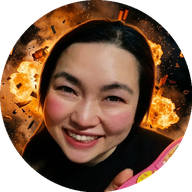
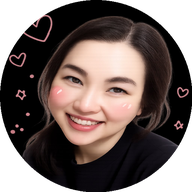
Add files via upload

diff --git a/index.html b/index.html
@@ -284,7 +284,7 @@ body{font-family:'Noto Sans KR',sans-serif;background:var(--bg);color:var(--text
 <header class="app-header">
   <div class="header-row">
     <div class="app-title">🏠 가족 일정</div>
-    <span class="app-version">v4.4</span>
+    <span class="app-version">v4.5</span>
     <div class="header-actions">
       <button class="hdr-btn btn-refresh" onclick="location.reload()">🔄</button>
       <button class="hdr-btn btn-loc" onclick="window.open('https://family-tracker-yoo.web.app','_blank')">📍 위치</button>
@@ -1058,14 +1058,18 @@ async function processAICommand(reply){
   return reply.replace(/\[CMD:[\s\S]*?\]/,'');
 }
 
-// ID 포함 일정 요약
+// ID 포함 일정 요약 - 앞뒤 2개월만, 간결하게
 function getEventsSummaryWithIds(){
-  const allEvs=expand(events).sort((a,b)=>a.date.localeCompare(b.date));
+  const now=new Date();
+  const s=new Date(now.getFullYear(),now.getMonth()-1,1);
+  const e=new Date(now.getFullYear(),now.getMonth()+3,0);
+  const allEvs=events
+    .filter(ev=>ev.date>=s.toISOString().slice(0,10)&&ev.date<=e.toISOString().slice(0,10))
+    .sort((a,b)=>a.date.localeCompare(b.date));
   if(!allEvs.length) return '등록된 일정 없음';
   return allEvs.map(ev=>{
-    const who=Array.isArray(ev.who)?ev.who.join(','):ev.who;
-    const id=ev._v?ev._oid:ev.id;
-    return `[ID:${id}] [${ev.date}${ev.time?' '+ev.time:''}] ${ev.title} - ${who}${ev.body?' ('+ev.body+')':''}`;
+    const who=Array.isArray(ev.who)?ev.who.map(w=>w.slice(1)).join(','):ev.who.slice(1);
+    return `[${ev.date}${ev.time?' '+ev.time:''}] ${ev.title}(${who})${ev.body?' -'+ev.body:''}`;
   }).join('\n');
 }
 
